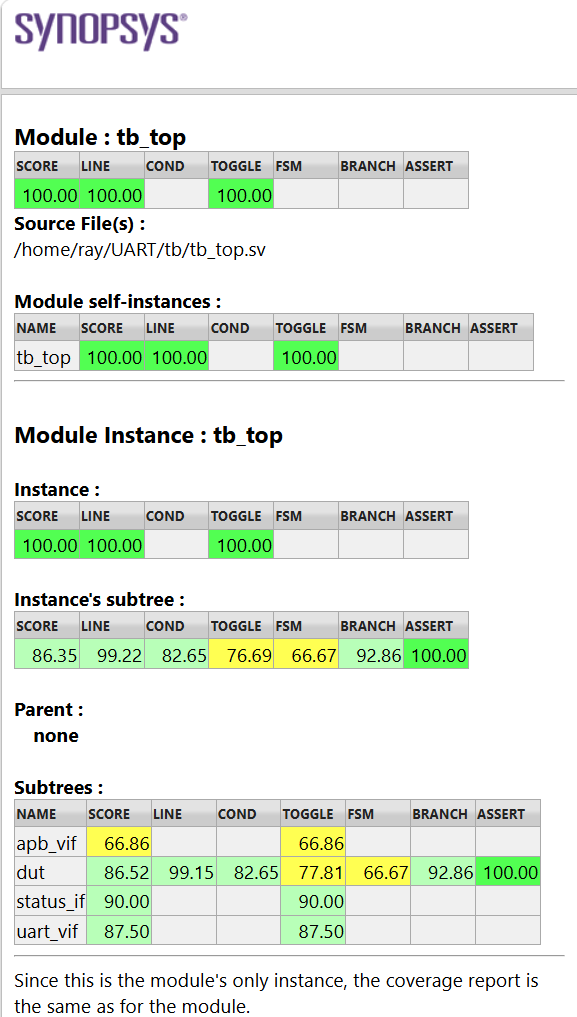
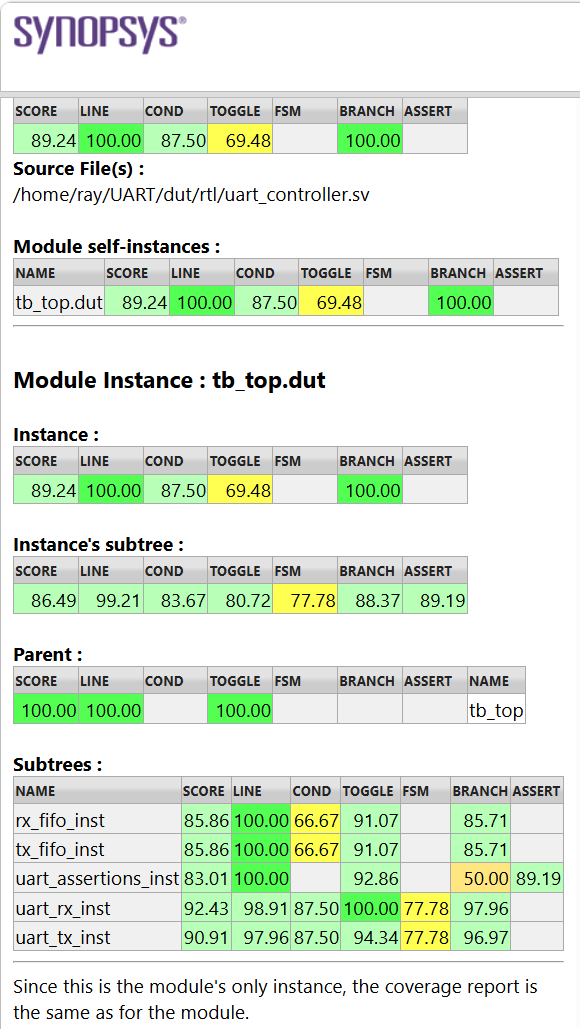
Polish APB4 UART GitHub project presentation

diff --git a/README.md b/README.md
@@ -2,7 +2,33 @@
 
 A SystemVerilog/UVM verification project for an APB4 UART controller with FIFO, error-status, and interrupt behavior.
 
-![Final merged coverage summary](docs/images/final_coverage_summary.png)
+## Project Summary
+
+- APB4-based UART IP verification; v1.0 hardening and coverage closure completed.
+- SystemVerilog / UVM / SVA / Functional Coverage; Synopsys VCS + Verdi.
+- Hardening regression: **7 / 7 PASS**, with zero UVM warnings, errors, or fatals.
+- Functional coverage: **100.00%**.
+- `uart_controller` line / branch coverage: **100.00% / 100.00%**.
+- DUT subtree line / assertion coverage: **99.21% / 89.19%**.
+
+See the [verification plan](docs/verification_plan.md) for scope and the [v1.0 coverage summary](docs/coverage_summary.md#v10-hardening-final-results) for reviewed residual gaps. These results do not imply 100% code coverage or exhaustive verification.
+
+## Final Verification Results
+
+The final hardening regression completed with **7/7 tests passing** and **zero UVM warnings, errors, or fatals**. The [hardening regression table](#hardening-regression) lists the tests.
+
+![Final regression summary](docs/images/final_regression_summary.png)
+
+The final merged Synopsys VCS/URG coverage results below show `uart_controller` and its DUT subtree. The global URG score is not the primary result because it includes UVM/Verdi instrumentation.
+
+| Metric | Result |
+|---|---:|
+| Functional coverage | **100.00%** |
+| `uart_controller` line / condition / branch / toggle | **100.00% / 87.50% / 100.00% / 69.48%** |
+| DUT subtree line / condition / toggle / FSM / branch | **99.21% / 83.67% / 80.72% / 77.78% / 88.37%** |
+| Assertion coverage | **89.19%** |
+
+![Final coverage summary](docs/images/final_coverage_summary.png)
 
 ## Project overview
 
@@ -25,6 +51,8 @@ The original/ directory preserves the Vyges source package and Apache-2.0 licens
 APB register access and byte strobes; UART TX/RX; FIFO empty/middle/full; TX write while full; RX receive while full; RX read while empty; parity modes/errors; frame error; overrun; TX-empty IRQ; and RX-full IRQ are verified. See [verification plan](docs/verification_plan.md).
 
 ## Coverage results
+
+The table and conclusion in this section retain the September 20, 2026 pre-hardening baseline. For the current v1.0 results, see [Final Coverage](#final-coverage).
 
 Whole-simulation URG totals include UVM/Verdi recording instrumentation, so portfolio interpretation uses DUT scope.
 
@@ -107,11 +135,6 @@ Verified local Synopsys VCS/URG result: 7/7 PASS; `UVM_WARNING=0`, `UVM_ERROR=0`
 
 ### Final Coverage
 
-| Metric | Result |
-|---|---:|
-| Functional coverage | **100.00%** |
-| `uart_controller` line / condition / branch / toggle | **100.00% / 87.50% / 100.00% / 69.48%** |
-| DUT subtree line / condition / toggle / FSM / branch | **99.21% / 83.67% / 80.72% / 77.78% / 88.37%** |
-| Assertion coverage | **89.19%** |
+The [Final Verification Results](#final-verification-results) above contain the final coverage table and merged URG screenshot. Supplemental [APB SVA coverage evidence](docs/coverage_summary.md#apb-sva--assertion-coverage-evidence) is provided in the coverage summary.
 
 The global URG total is not the primary project metric because UVM/Verdi instrumentation lowers it. Remaining holes are reviewed: zero-wait APB has no wait-state hit, the word-aligned map keeps `PADDR[1:0]` static, `PPROT` is unused, and residual protocol/topology and assertion failure branches are low verification-value combinations.

diff --git a/docs/coverage_summary.md b/docs/coverage_summary.md
@@ -59,3 +59,9 @@ Results documented from the verified local Synopsys VCS/URG regression on Septem
 | Assertions | Assertion coverage | **89.19%** |
 
 The global URG score is not reported as the primary result because it includes UVM/Verdi instrumentation. Residual holes were reviewed as design-inapplicable, protocol/topology artifacts, parameter/alignment-driven, or low verification-value combinations: zero-wait APB has no wait-state hit, `PADDR[1:0]` is static for word-aligned registers, `PPROT` is unused, and assertion failure action branches should not execute in a passing regression.
+
+### APB SVA / Assertion Coverage Evidence
+
+The screenshot below records APB SVA runtime cover-hit counters for the hardening runs, including SETUP/ACCESS sequencing, completed transfers, and PSTRB writes. It is supplemental execution evidence, not a final merged coverage percentage; zero wait-state hits are expected for the zero-wait UART APB slave. The final merged DUT-subtree assertion coverage remains **89.19%**, as reported above. The [final VCS/URG coverage screenshot](images/final_coverage_summary.png) remains the main coverage evidence.
+
+![APB SVA coverage summary](images/apb_sva_coverage_summary.png)
